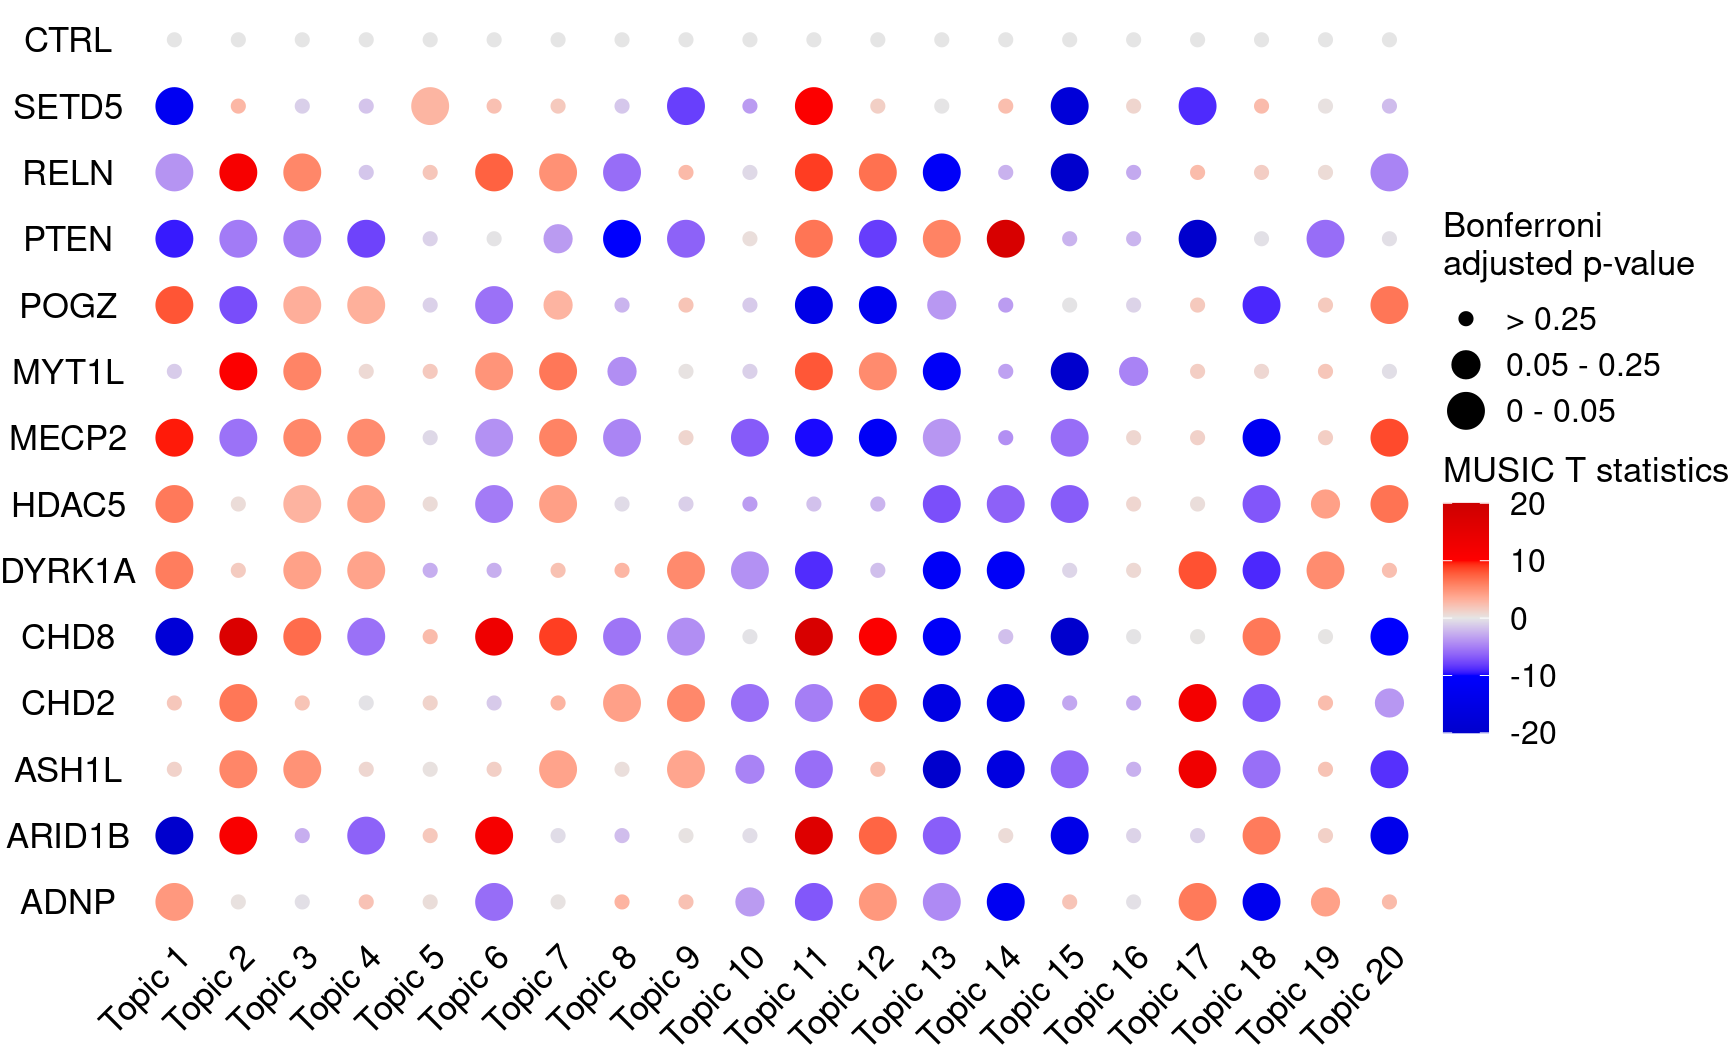
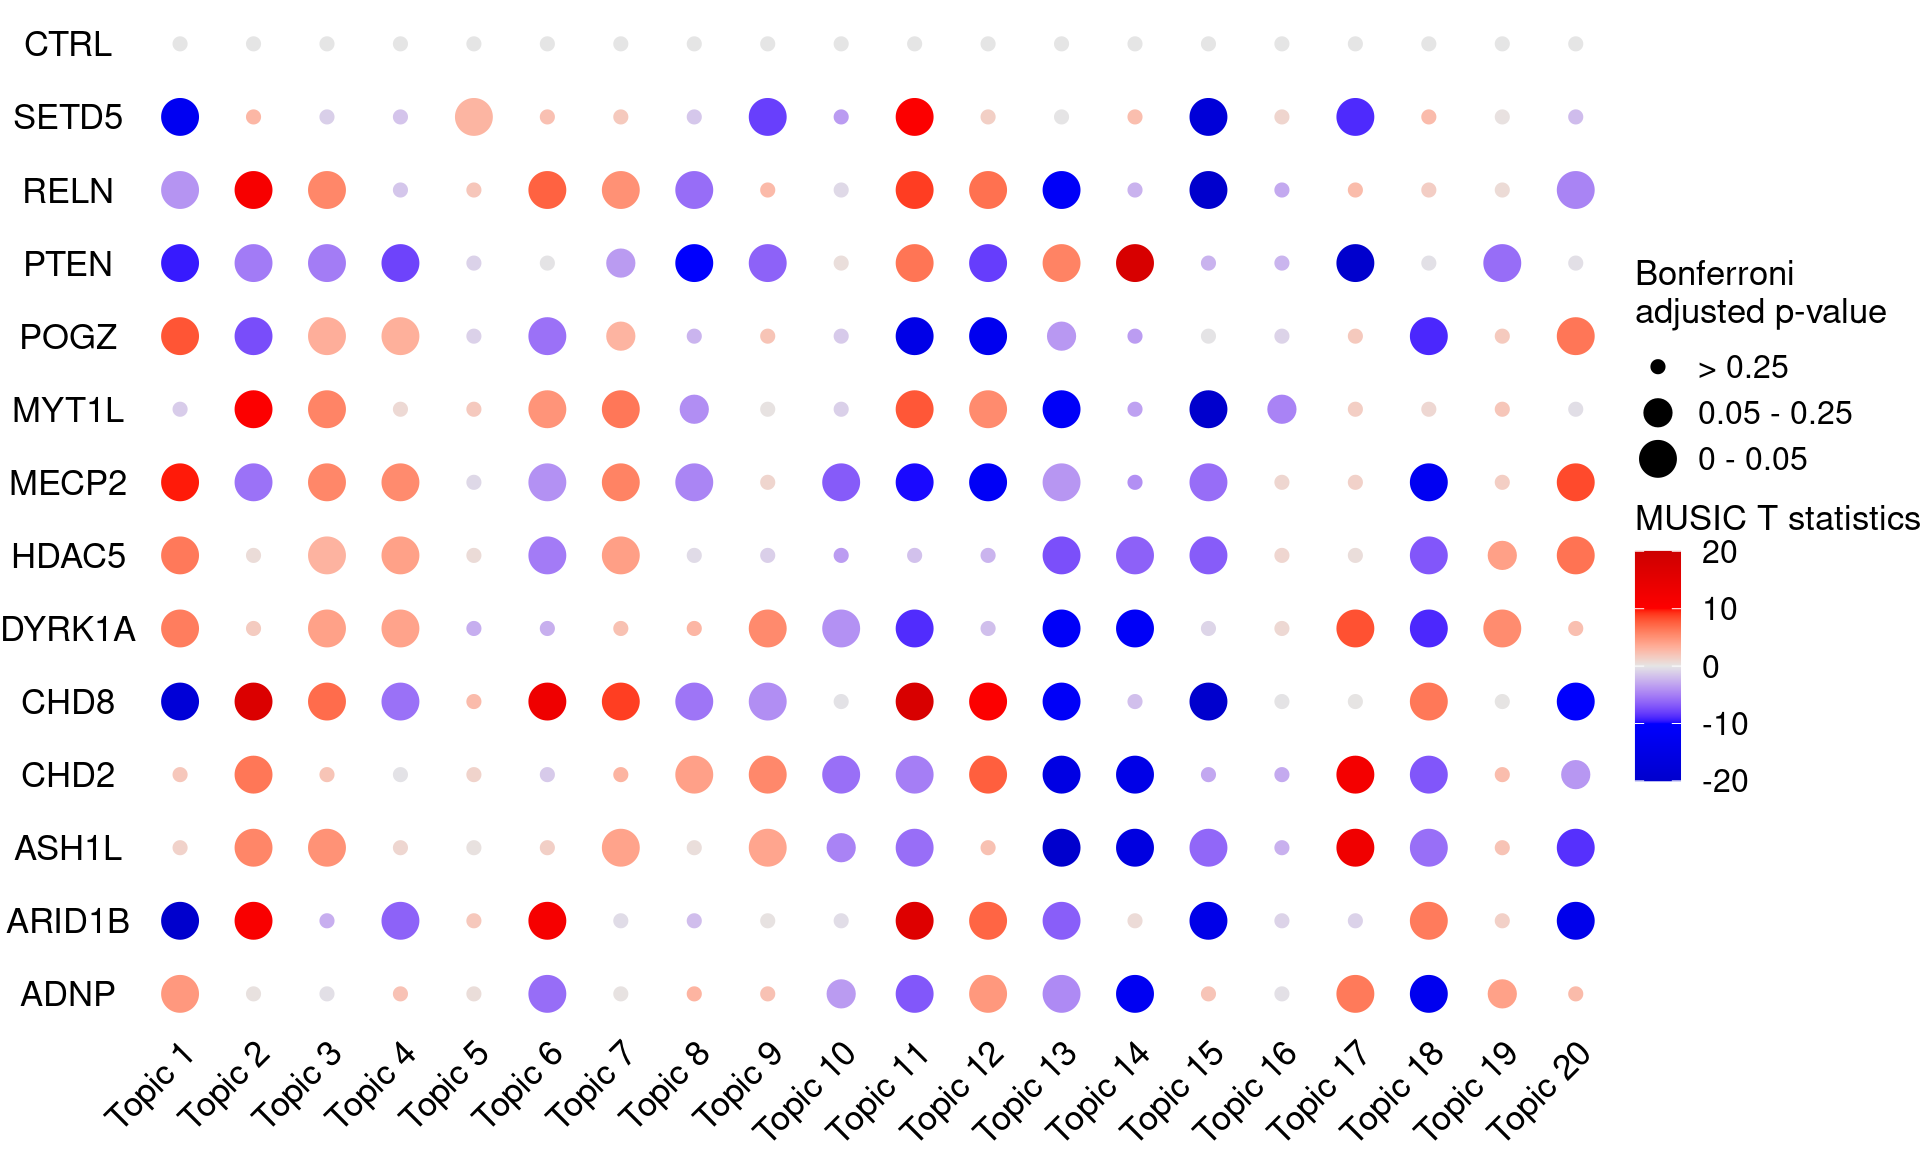
Build site.

diff --git a/docs/music_LUHMES_data.html b/docs/music_LUHMES_data.html
@@ -528,15 +528,15 @@ project makes it easier to run your code on other machines.</p>
 <div class="panel panel-default">
 <div class="panel-heading">
 <p class="panel-title">
-<a data-toggle="collapse" data-parent="#workflowr-checks" href="#strongRepositoryversionstrongahrefhttpsgithubcomkevinlkxGSFAanalysistreef02521eab45755cf2ce5f0fe2aebb0caf20c7c35targetblankf02521ea">
+<a data-toggle="collapse" data-parent="#workflowr-checks" href="#strongRepositoryversionstrongahrefhttpsgithubcomkevinlkxGSFAanalysistreea8e275a4229fffc2690ccd5080f2bc6801cfaf6dtargetblanka8e275aa">
 <span class="glyphicon glyphicon-ok text-success"
 aria-hidden="true"></span> <strong>Repository version:</strong>
-<a href="https://github.com/kevinlkx/GSFA-analysis/tree/f02521eab45755cf2ce5f0fe2aebb0caf20c7c35" target="_blank">f02521e</a>
+<a href="https://github.com/kevinlkx/GSFA-analysis/tree/a8e275a4229fffc2690ccd5080f2bc6801cfaf6d" target="_blank">a8e275a</a>
 </a>
 </p>
 </div>
 <div
[2 lines of base64/hex data omitted]
 class="panel-collapse collapse">
 <div class="panel-body">
 <p>
@@ -546,7 +546,7 @@ reproducibility.
 </p>
 <p>
 The results in this page were generated with repository version
-<a href="https://github.com/kevinlkx/GSFA-analysis/tree/f02521eab45755cf2ce5f0fe2aebb0caf20c7c35" target="_blank">f02521e</a>.
+<a href="https://github.com/kevinlkx/GSFA-analysis/tree/a8e275a4229fffc2690ccd5080f2bc6801cfaf6d" target="_blank">a8e275a</a>.
 See the <em>Past versions</em> tab to see a history of the changes made
 to the R Markdown and HTML files.
 </p>
@@ -561,6 +561,7 @@ were generated:
 </p>
 <pre><code>
 Ignored files:
+    Ignored:    .DS_Store
     Ignored:    .Rhistory
     Ignored:    .Rproj.user/
 
@@ -656,6 +657,40 @@ Message
 </tr>
 </thead>
 <tbody>
+<tr>
+<td>
+Rmd
+</td>
+<td>
+<a href="https://github.com/kevinlkx/GSFA-analysis/blob/a8e275a4229fffc2690ccd5080f2bc6801cfaf6d/analysis/music_LUHMES_data.Rmd" target="_blank">a8e275a</a>
+</td>
+<td>
+kevinlkx
+</td>
+<td>
+2022-09-20
+</td>
+<td>
+updated dot plots
+</td>
+</tr>
+<tr>
+<td>
+html
+</td>
+<td>
+<a href="https://rawcdn.githack.com/kevinlkx/GSFA-analysis/31d48d113150ca75450a2be8547e6f067e279ed4/docs/music_LUHMES_data.html" target="_blank">31d48d1</a>
+</td>
+<td>
+kevinlkx
+</td>
+<td>
+2022-09-20
+</td>
+<td>
+Build site.
+</td>
+</tr>
 <tr>
 <td>
 Rmd
@@ -1348,6 +1383,17 @@ Date
 <tbody>
 <tr>
 <td>
+<a href="https://github.com/kevinlkx/GSFA-analysis/blob/31d48d113150ca75450a2be8547e6f067e279ed4/docs/figure/music_LUHMES_data.Rmd/empirical_tstats_heatmap_20topics-1.png" target="_blank">31d48d1</a>
+</td>
+<td>
+kevinlkx
+</td>
+<td>
+2022-09-20
+</td>
+</tr>
+<tr>
+<td>
 <a href="https://github.com/kevinlkx/GSFA-analysis/blob/2763f3360213a6853baf049c46c0e69df3022fb8/docs/figure/music_LUHMES_data.Rmd/empirical_tstats_heatmap_20topics-1.png" target="_blank">2763f33</a>
 </td>
 <td>
@@ -1374,7 +1420,7 @@ dotplot_effectsize(t(effect_mat), t(fdr_mat),
                    by_score = 10) + 
   coord_flip() +
   theme(axis.text.x = element_text(angle = 45, vjust = 1))</code></pre>
-<p><img src="figure/music_LUHMES_data.Rmd/effect_fdr_dotplot_20topics-1.png" width="864" style="display: block; margin: auto;" /></p>
+<p><img src="figure/music_LUHMES_data.Rmd/effect_fdr_dotplot_20topics-1.png" width="960" style="display: block; margin: auto;" /></p>
 <p>
 <button type="button" class="btn btn-default btn-xs btn-workflowr btn-workflowr-fig" data-toggle="collapse" data-target="#fig-effect_fdr_dotplot_20topics-1">
 Past versions of effect_fdr_dotplot_20topics-1.png
@@ -1397,6 +1443,17 @@ Date
 </tr>
 </thead>
 <tbody>
+<tr>
+<td>
+<a href="https://github.com/kevinlkx/GSFA-analysis/blob/31d48d113150ca75450a2be8547e6f067e279ed4/docs/figure/music_LUHMES_data.Rmd/effect_fdr_dotplot_20topics-1.png" target="_blank">31d48d1</a>
+</td>
+<td>
+kevinlkx
+</td>
+<td>
+2022-09-20
+</td>
+</tr>
 <tr>
 <td>
 <a href="https://github.com/kevinlkx/GSFA-analysis/blob/43b3a70ba2edf2b5eb15a7782638e00253bfeba0/docs/figure/music_LUHMES_data.Rmd/effect_fdr_dotplot_20topics-1.png" target="_blank">43b3a70</a>
@@ -1445,7 +1502,7 @@ dotplot_effectsize(t(effect_mat), t(bonferroni_mat),
                    by_score = 10) + 
   coord_flip() + 
   theme(axis.text.x = element_text(angle = 45, vjust = 1))</code></pre>
-<p><img src="figure/music_LUHMES_data.Rmd/effect_bonferroni_dotplot_20topics-1.png" width="864" style="display: block; margin: auto;" /></p>
+<p><img src="figure/music_LUHMES_data.Rmd/effect_bonferroni_dotplot_20topics-1.png" width="960" style="display: block; margin: auto;" /></p>
 <p>
 <button type="button" class="btn btn-default btn-xs btn-workflowr btn-workflowr-fig" data-toggle="collapse" data-target="#fig-effect_bonferroni_dotplot_20topics-1">
 Past versions of effect_bonferroni_dotplot_20topics-1.png
@@ -1468,6 +1525,17 @@ Date
 </tr>
 </thead>
 <tbody>
+<tr>
+<td>
+<a href="https://github.com/kevinlkx/GSFA-analysis/blob/31d48d113150ca75450a2be8547e6f067e279ed4/docs/figure/music_LUHMES_data.Rmd/effect_bonferroni_dotplot_20topics-1.png" target="_blank">31d48d1</a>
+</td>
+<td>
+kevinlkx
+</td>
+<td>
+2022-09-20
+</td>
+</tr>
 <tr>
 <td>
 <a href="https://github.com/kevinlkx/GSFA-analysis/blob/a2297e54aaaa65a53b0275c3e70ca13d7a780338/docs/figure/music_LUHMES_data.Rmd/effect_bonferroni_dotplot_20topics-1.png" target="_blank">a2297e5</a>
@@ -1684,6 +1752,17 @@ Date
 <tbody>
 <tr>
 <td>
+<a href="https://github.com/kevinlkx/GSFA-analysis/blob/31d48d113150ca75450a2be8547e6f067e279ed4/docs/figure/music_LUHMES_data.Rmd/empirical_tstats_heatmap_4topics-1.png" target="_blank">31d48d1</a>
+</td>
+<td>
+kevinlkx
+</td>
+<td>
+2022-09-20
+</td>
+</tr>
+<tr>
+<td>
 <a href="https://github.com/kevinlkx/GSFA-analysis/blob/2763f3360213a6853baf049c46c0e69df3022fb8/docs/figure/music_LUHMES_data.Rmd/empirical_tstats_heatmap_4topics-1.png" target="_blank">2763f33</a>
 </td>
 <td>
@@ -1732,6 +1811,17 @@ Date
 </tr>
 </thead>
 <tbody>
+<tr>
+<td>
+<a href="https://github.com/kevinlkx/GSFA-analysis/blob/31d48d113150ca75450a2be8547e6f067e279ed4/docs/figure/music_LUHMES_data.Rmd/effect_fdr_dotplot_4topics-1.png" target="_blank">31d48d1</a>
+</td>
+<td>
+kevinlkx
+</td>
+<td>
+2022-09-20
+</td>
+</tr>
 <tr>
 <td>
 <a href="https://github.com/kevinlkx/GSFA-analysis/blob/43b3a70ba2edf2b5eb15a7782638e00253bfeba0/docs/figure/music_LUHMES_data.Rmd/effect_fdr_dotplot_4topics-1.png" target="_blank">43b3a70</a>
@@ -1803,6 +1893,17 @@ Date
 </tr>
 </thead>
 <tbody>
+<tr>
+<td>
+<a href="https://github.com/kevinlkx/GSFA-analysis/blob/31d48d113150ca75450a2be8547e6f067e279ed4/docs/figure/music_LUHMES_data.Rmd/effect_bonferroni_dotplot_4topics-1.png" target="_blank">31d48d1</a>
+</td>
+<td>
+kevinlkx
+</td>
+<td>
+2022-09-20
+</td>
+</tr>
 <tr>
 <td>
 <a href="https://github.com/kevinlkx/GSFA-analysis/blob/a2297e54aaaa65a53b0275c3e70ca13d7a780338/docs/figure/music_LUHMES_data.Rmd/effect_bonferroni_dotplot_4topics-1.png" target="_blank">a2297e5</a>
